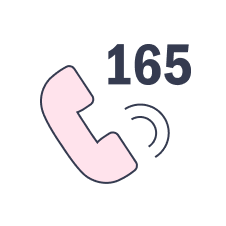
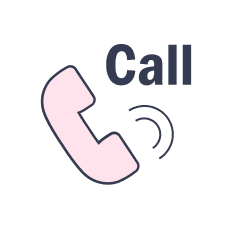
更新step3文案

Changed region(s): [[0.4646, 0.1858, 0.8673, 0.4027], [0.1549, 0.2788, 0.6195, 0.8363], [0.5575, 0.4336, 0.7743, 0.7124]]

diff --git a/css/style.css b/css/style.css
@@ -396,7 +396,7 @@ main .main-content .notice ul {
 }
 main .main-content .notice ul li {
   text-align: center;
-  width: 16rem;
+  flex: 16.5rem;
 }
 main .main-content .notice ul li span {
   padding: 0.5rem 1rem;
@@ -540,7 +540,7 @@ footer .copyright strong {
     flex: calc(60% - 3.25rem);
   }
 }
-@media screen and (max-width: 516px) {
+@media screen and (max-width: 768px) {
   form {
     margin: 0;
     margin-top: 1.5rem;
@@ -593,7 +593,7 @@ footer .copyright strong {
     gap: 1.25rem 0;
   }
   main .main-content .receipt {
-    max-width: 100svw;
+    flex: 100svw;
   }
   main .main-content .receipt p {
     font-size: 1.125rem;
@@ -602,6 +602,7 @@ footer .copyright strong {
     max-width: 13rem;
   }
   main .main-content .lock {
+    flex: 100svw;
     padding-left: 0;
   }
   main .main-content .lock h2 {
@@ -631,6 +632,9 @@ footer .copyright strong {
   }
   main .main-content .notice ul li {
     flex: 100%;
+  }
+  main .main-content .notice ul li br {
+    display: none;
   }
   main .main-content .notice .announce p {
     align-items: flex-start;

diff --git a/pre/scss/style.scss b/pre/scss/style.scss
@@ -323,7 +323,7 @@ main {
 
                 li {
                     text-align: center;
-                    width: 16rem;
+                    flex: 16.5rem;
 
                     span {
                         padding: 0.5rem 1rem;
@@ -509,7 +509,7 @@ footer {
 }
 
 
-@media screen and (max-width:516px) {
+@media screen and (max-width:768px) {
 
     // components
     form {
@@ -586,7 +586,7 @@ footer {
             gap: 1.25rem 0;
 
             .receipt {
-                max-width: 100svw;
+                flex: 100svw;
 
                 p {
                     font-size: 1.125rem;
@@ -598,6 +598,7 @@ footer {
             }
 
             .lock {
+                flex: 100svw;
                 padding-left: 0;
 
                 h2 {
@@ -634,6 +635,10 @@ footer {
 
                     li {
                         flex: 100%;
+
+                        br {
+                            display: none;
+                        }
                     }
                 }
 

diff --git a/index.html b/index.html
@@ -63,8 +63,8 @@
                     <li>
                         <span>Step 3</span>
                         <img src="images/step3.svg">
-                        <h6>撥打 165 反詐騙專線</h6>
-                        <p>備妥相關資料撥打 165 專線進行犯罪情事舉發</p>
+                        <h6>撥打反詐騙專線</h6>
+                        <p>備妥相關資料撥打 165 (台灣) / <br>18222 (香港) 專線進行犯罪情事舉發</p>
                     </li>
                 </ul>
                 <div class="announce">
